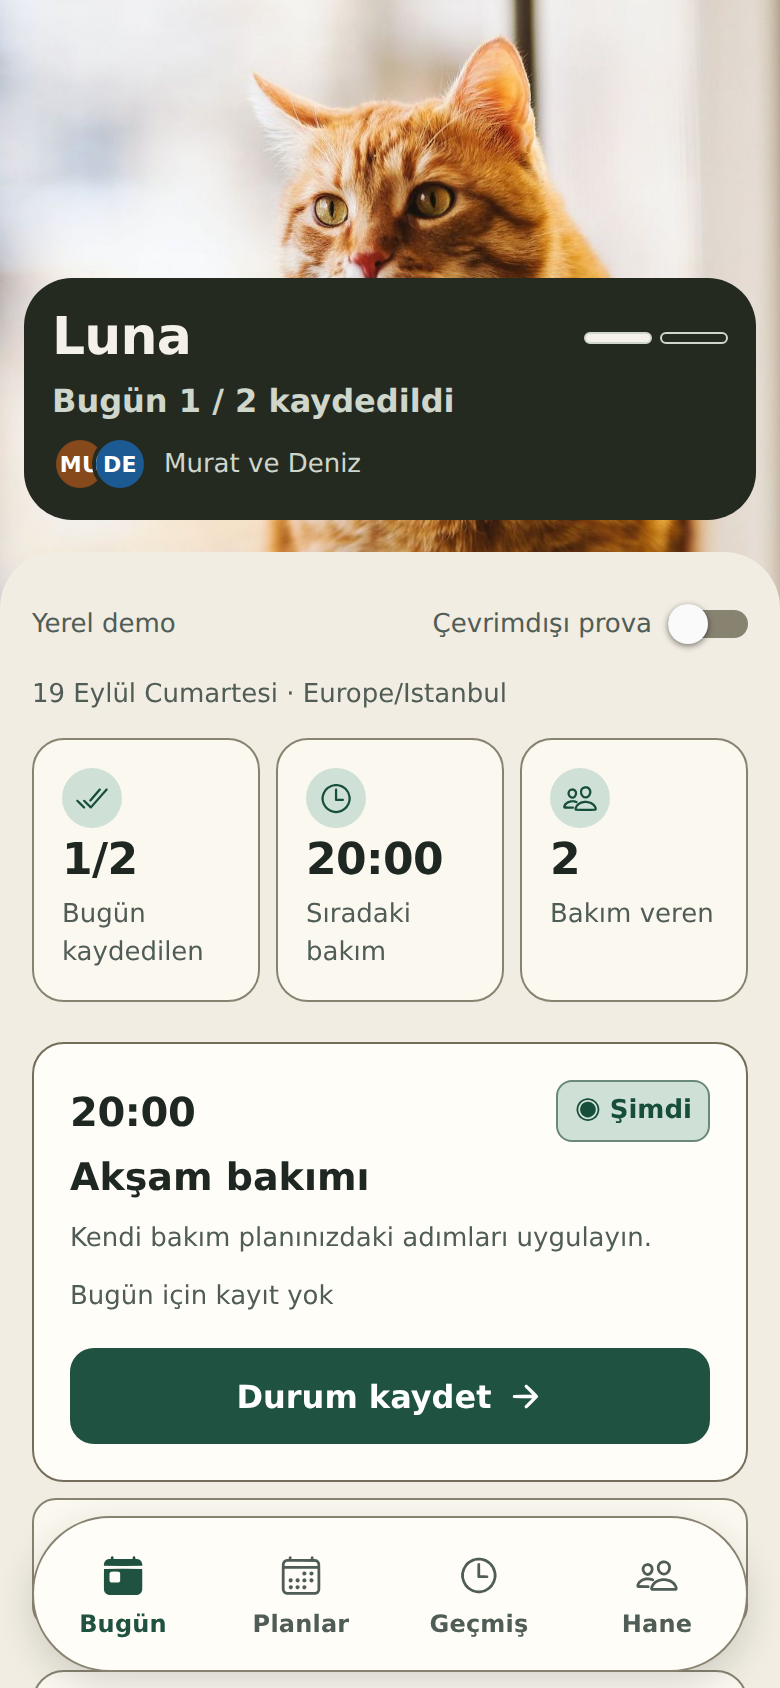
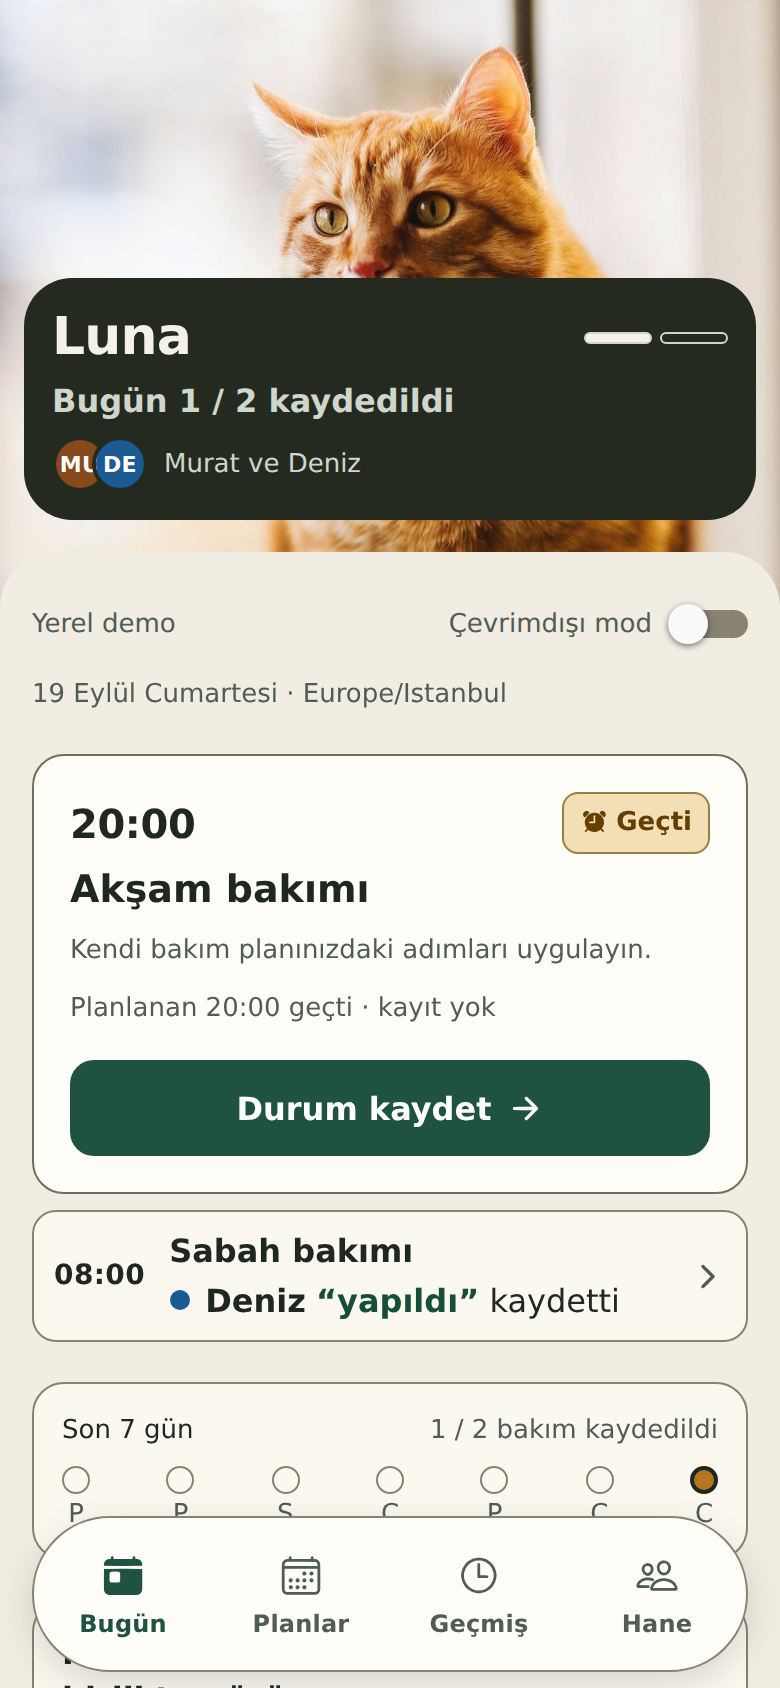
Documenter'ın bulduğu drift'i kapat
- invite/new.tsx basılı hâli opaklık yerine dolgu kullanıyor (K-35, 'Basılı Hâl Dolgudur')
- status-chip ikon boyutları elle yazılmış 12/14 yerine layout.icon tokenlarından
- paywall'daki ölü boş stil kaldırıldı
- Kanıt görseli tazelendi: kaldırılan tile satırını ve eski 'Çevrimdışı prova' metnini gösteriyordu

diff --git a/apps/mobile/src/app/invite/new.tsx b/apps/mobile/src/app/invite/new.tsx
@@ -102,7 +102,7 @@ export default function NewInviteScreen() {
         </Pressable>
 
         {isDemo ? (
-          <Pressable accessibilityRole="button" onPress={() => router.push(`/invite/${DEMO_TOKEN}`)} style={({ pressed }) => [styles.secondary, pressed && styles.pressed]}>
+          <Pressable accessibilityRole="button" onPress={() => router.push(`/invite/${DEMO_TOKEN}`)} style={({ pressed }) => [styles.secondary, pressed && styles.secondaryPressed]}>
             <Text style={styles.secondaryText}>Karşı tarafın gördüğü ekranı aç</Text>
           </Pressable>
         ) : null}
@@ -145,10 +145,11 @@ const styles = StyleSheet.create({
   primaryText: { ...typography.bodyStrong, color: palette.white },
   secondary: { alignItems: 'center', borderColor: palette.primary, borderRadius: radius.md, borderWidth: 1, justifyContent: 'center', minHeight: touchTarget, paddingHorizontal: spacing.lg },
   secondaryText: { ...typography.bodyStrong, color: palette.primary },
+  secondaryPressed: { backgroundColor: palette.surfacePressed },
   textAction: { justifyContent: 'center', minHeight: touchTarget },
   dangerText: { ...typography.metaStrong, color: palette.overdue },
   disabled: { opacity: opacity.disabled },
-  pressed: { opacity: opacity.disabled },
+  pressed: { backgroundColor: palette.primaryPressed },
   error: { alignItems: 'flex-start', backgroundColor: palette.overdueSoft, borderRadius: radius.md, flexDirection: 'row', gap: spacing.sm, marginTop: layout.blockGap, padding: layout.cardPadding },
   errorText: { color: palette.overdue, flex: 1 },
   footnote: { marginTop: layout.blockGap },

diff --git a/apps/mobile/src/app/paywall.tsx b/apps/mobile/src/app/paywall.tsx
@@ -83,7 +83,7 @@ export default function PaywallScreen() {
       <Pressable accessibilityRole="button" onPress={() => void registerInterest()} style={({ pressed }) => [styles.primary, pressed && styles.pressed]}>
         <Text style={styles.primaryText}>Bu paket ilgimi çeker</Text>
       </Pressable>
-      <MetaText style={styles.disclosure}>Bu sürümde satın alma kapalı: ödeme alınmaz, abonelik başlatılmaz. Düğme yalnızca fiyat ilgisini ölçer; fiyat ve paket doğrulama sonucuna göre değişebilir.</MetaText>
+      <MetaText>Bu sürümde satın alma kapalı: ödeme alınmaz, abonelik başlatılmaz. Düğme yalnızca fiyat ilgisini ölçer; fiyat ve paket doğrulama sonucuna göre değişebilir.</MetaText>
     </View>
   </Screen>;
 }
@@ -113,5 +113,4 @@ const styles = StyleSheet.create({
   primary: { alignItems: 'center', backgroundColor: palette.primary, borderRadius: radius.md, justifyContent: 'center', minHeight: touchTarget },
   primaryText: { ...typography.bodyStrong, color: palette.white },
   pressed: { backgroundColor: palette.primaryPressed },
-  disclosure: { },
 });

diff --git a/apps/mobile/src/components/status-chip.tsx b/apps/mobile/src/components/status-chip.tsx
@@ -28,7 +28,7 @@ export function StatusChip({ status, label, size = 'md', style }: Props) {
       accessible
       style={[styles.root, { backgroundColor: colors.bg, borderColor: colors.border, paddingHorizontal: small ? spacing.sm - 2 : spacing.sm, paddingVertical: small ? 3 : 5 }, style]}
     >
-      <Ionicons color={colors.fg} name={language.icon} size={small ? 12 : 14} />
+      <Ionicons color={colors.fg} name={language.icon} size={small ? layout.icon.xs : layout.icon.sm} />
       <Text style={[small ? styles.labelSmall : styles.label, { color: colors.fg }]}>{text}</Text>
     </View>
   );
